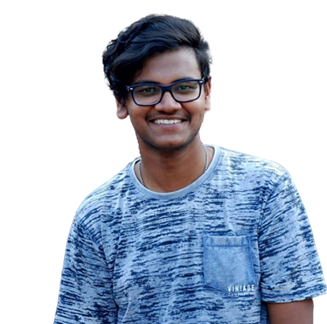
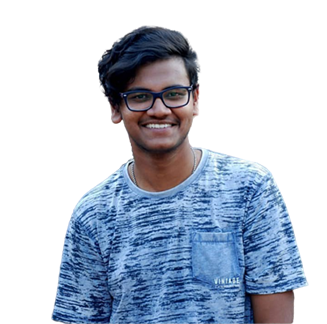
Team update

diff --git a/index.html b/index.html
@@ -642,16 +642,13 @@ Start Our Team
 			               <div class="team-member">
 								<div class="member-photo">
 									<!-- member photo -->
-									<img class="img-responsive" src="images/team/Mythri.png" alt="Vetha">
+									<img class="img-responsive" src="images/team/Vetha.png" alt="Vetha">
 									<!-- /member photo -->
 
 									<!-- member social profile -->
 									<div class="mask">
 										<ul class="list-inline">
-											<li><a href="#"><i class="tf-ion-social-facebook"></i></a></li>
-											<li><a href="#"><i class="tf-ion-social-twitter"></i></a></li>
-											<li><a href="#"><i class="tf-ion-social-linkedin"></i></a></li>
-											<li><a href="#"><i class="tf-ion-social-dribbble-outline"></i></a></li>
+											<li><a href="https://www.linkedin.com/in/vethavarshini/"><i class="tf-ion-social-linkedin"></i></a></li>
 										</ul>
 									</div>
 									<!-- /member social profile -->
@@ -681,10 +678,7 @@ Start Our Team
 									<!-- member social profile -->
 									<div class="mask">
 										<ul class="list-inline">
-											<li><a href="#"><i class="tf-ion-social-facebook"></i></a></li>
-											<li><a href="#"><i class="tf-ion-social-twitter"></i></a></li>
-											<li><a href="#"><i class="tf-ion-social-linkedin"></i></a></li>
-											<li><a href="#"><i class="tf-ion-social-dribbble-outline"></i></a></li>
+											<li><a href="https://www.linkedin.com/in/sree-teja-kalakota-6402a216b/"><i class="tf-ion-social-linkedin"></i></a></li>
 										</ul>
 									</div>
 									<!-- /member social profile -->
@@ -712,10 +706,7 @@ Start Our Team
 									<!-- member social profile -->
 									<div class="mask">
 										<ul class="list-inline">
-											<li><a href="#"><i class="tf-ion-social-facebook"></i></a></li>
-											<li><a href="#"><i class="tf-ion-social-twitter"></i></a></li>
 											<li><a href="#"><i class="tf-ion-social-linkedin"></i></a></li>
-											<li><a href="#"><i class="tf-ion-social-dribbble-outline"></i></a></li>
 										</ul>
 									</div>
 									<!-- /member social profile -->
@@ -737,16 +728,13 @@ Start Our Team
 			               <div class="team-member">
 								<div class="member-photo">
 									<!-- member photo -->
-									<img class="img-responsive" src="images/team/Mythri.png" alt="Amisha">
+									<img class="img-responsive" src="images/team/Amisha.png" alt="Amisha">
 									<!-- /member photo -->
 
 									<!-- member social profile -->
 									<div class="mask">
 										<ul class="list-inline">
-											<li><a href="#"><i class="tf-ion-social-facebook"></i></a></li>
-											<li><a href="#"><i class="tf-ion-social-twitter"></i></a></li>
 											<li><a href="#"><i class="tf-ion-social-linkedin"></i></a></li>
-											<li><a href="#"><i class="tf-ion-social-dribbble-outline"></i></a></li>
 										</ul>
 									</div>
 									<!-- /member social profile -->
@@ -774,10 +762,7 @@ Start Our Team
 									<!-- member social profile -->
 									<div class="mask">
 										<ul class="list-inline">
-											<li><a href="#"><i class="tf-ion-social-facebook"></i></a></li>
-											<li><a href="#"><i class="tf-ion-social-twitter"></i></a></li>
-											<li><a href="#"><i class="tf-ion-social-linkedin"></i></a></li>
-											<li><a href="#"><i class="tf-ion-social-dribbble-outline"></i></a></li>
+											<li><a href="https://www.linkedin.com/in/akkaldevi-hemanth-a51790197/"><i class="tf-ion-social-linkedin"></i></a></li>
 										</ul>
 									</div>
 									<!-- /member social profile -->
@@ -805,10 +790,7 @@ Start Our Team
 									<!-- member social profile -->
 									<div class="mask">
 										<ul class="list-inline">
-											<li><a href="#"><i class="tf-ion-social-facebook"></i></a></li>
-											<li><a href="#"><i class="tf-ion-social-twitter"></i></a></li>
-											<li><a href="#"><i class="tf-ion-social-linkedin"></i></a></li>
-											<li><a href="#"><i class="tf-ion-social-dribbble-outline"></i></a></li>
+											<li><a href="https://www.linkedin.com/in/siddarth-praneeth-kms-192958178/"><i class="tf-ion-social-linkedin"></i></a></li>
 										</ul>
 									</div>
 									<!-- /member social profile -->
@@ -835,10 +817,7 @@ Start Our Team
 									<!-- member social profile -->
 									<div class="mask">
 										<ul class="list-inline">
-											<li><a href="#"><i class="tf-ion-social-facebook"></i></a></li>
-											<li><a href="#"><i class="tf-ion-social-twitter"></i></a></li>
-											<li><a href="#"><i class="tf-ion-social-linkedin"></i></a></li>
-											<li><a href="#"><i class="tf-ion-social-dribbble-outline"></i></a></li>
+											<li><a href="https://www.linkedin.com/in/mythri-shivakumar-49a254196/"><i class="tf-ion-social-linkedin"></i></a></li>
 										</ul>
 									</div>
 									<!-- /member social profile -->
@@ -866,7 +845,7 @@ Start Our Team
 									<!-- member social profile -->
 									<div class="mask">
 										<ul class="list-inline">
-											<li><a href=""><i class="tf-ion-social-linkedin"></i></a></li>
+											<li><a href="https://www.linkedin.com/in/aaris-khan-845143185/"><i class="tf-ion-social-linkedin"></i></a></li>
 										</ul>
 									</div>
 									<!-- /member social profile -->
@@ -894,10 +873,7 @@ Start Our Team
 									<!-- member social profile -->
 									<div class="mask">
 										<ul class="list-inline">
-											<li><a href="#"><i class="tf-ion-social-facebook"></i></a></li>
-											<li><a href="#"><i class="tf-ion-social-twitter"></i></a></li>
 											<li><a href="#"><i class="tf-ion-social-linkedin"></i></a></li>
-											<li><a href="#"><i class="tf-ion-social-dribbble-outline"></i></a></li>
 										</ul>
 									</div>
 									<!-- /member social profile -->
@@ -924,10 +900,7 @@ Start Our Team
 									<!-- member social profile -->
 									<div class="mask">
 										<ul class="list-inline">
-											<li><a href="#"><i class="tf-ion-social-facebook"></i></a></li>
-											<li><a href="#"><i class="tf-ion-social-twitter"></i></a></li>
-											<li><a href="#"><i class="tf-ion-social-linkedin"></i></a></li>
-											<li><a href="#"><i class="tf-ion-social-dribbble-outline"></i></a></li>
+											<li><a href="https://www.linkedin.com/in/teja-kadiyala-092323193/"><i class="tf-ion-social-linkedin"></i></a></li>
 										</ul>
 									</div>
 									<!-- /member social profile -->
@@ -954,10 +927,7 @@ Start Our Team
 									<!-- member social profile -->
 									<div class="mask">
 										<ul class="list-inline">
-											<li><a href="#"><i class="tf-ion-social-facebook"></i></a></li>
-											<li><a href="#"><i class="tf-ion-social-twitter"></i></a></li>
-											<li><a href="#"><i class="tf-ion-social-linkedin"></i></a></li>
-											<li><a href="#"><i class="tf-ion-social-dribbble-outline"></i></a></li>
+											<li><a href="https://www.linkedin.com/in/yasaswiraj-madari-2b7028182/"><i class="tf-ion-social-linkedin"></i></a></li>
 										</ul>
 									</div>
 									<!-- /member social profile -->
@@ -984,10 +954,7 @@ Start Our Team
 									<!-- member social profile -->
 									<div class="mask">
 										<ul class="list-inline">
-											<li><a href="#"><i class="tf-ion-social-facebook"></i></a></li>
-											<li><a href="#"><i class="tf-ion-social-twitter"></i></a></li>
 											<li><a href="#"><i class="tf-ion-social-linkedin"></i></a></li>
-											<li><a href="#"><i class="tf-ion-social-dribbble-outline"></i></a></li>
 										</ul>
 									</div>
 									<!-- /member social profile -->
